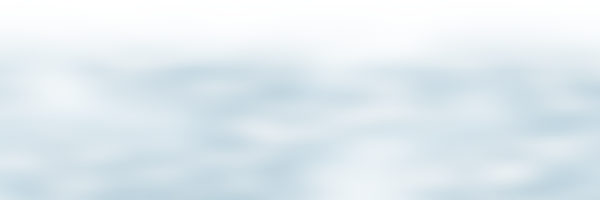
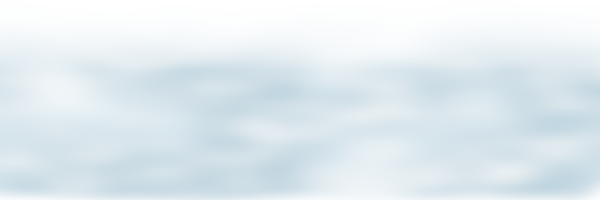
blur transition ebtween sea and sky

Changed region(s): [[0.0, 0.96, 0.54, 1.0], [0.69, 0.93, 1.0, 1.0]]

diff --git a/src/css/main.scss b/src/css/main.scss
@@ -13,12 +13,26 @@ main {
 }
 
 header {
+	position: relative;
 	background-color: #93c9e4;
 	background-image: url("../clouds.png");
 	background-size: 100% 40%;
 	background-repeat: no-repeat;
 	background-position: bottom;
 	flex: 4;
+	z-index: 20;
+
+	&::after {
+		content: "";
+		position: absolute;
+		bottom: -4px;
+		left: 0;
+		width: 100%;
+		height: 8px;
+		background-color: #93c9e4;
+		z-index: 10;
+		filter: blur(2px);
+	}
 }
 
 section.message {
